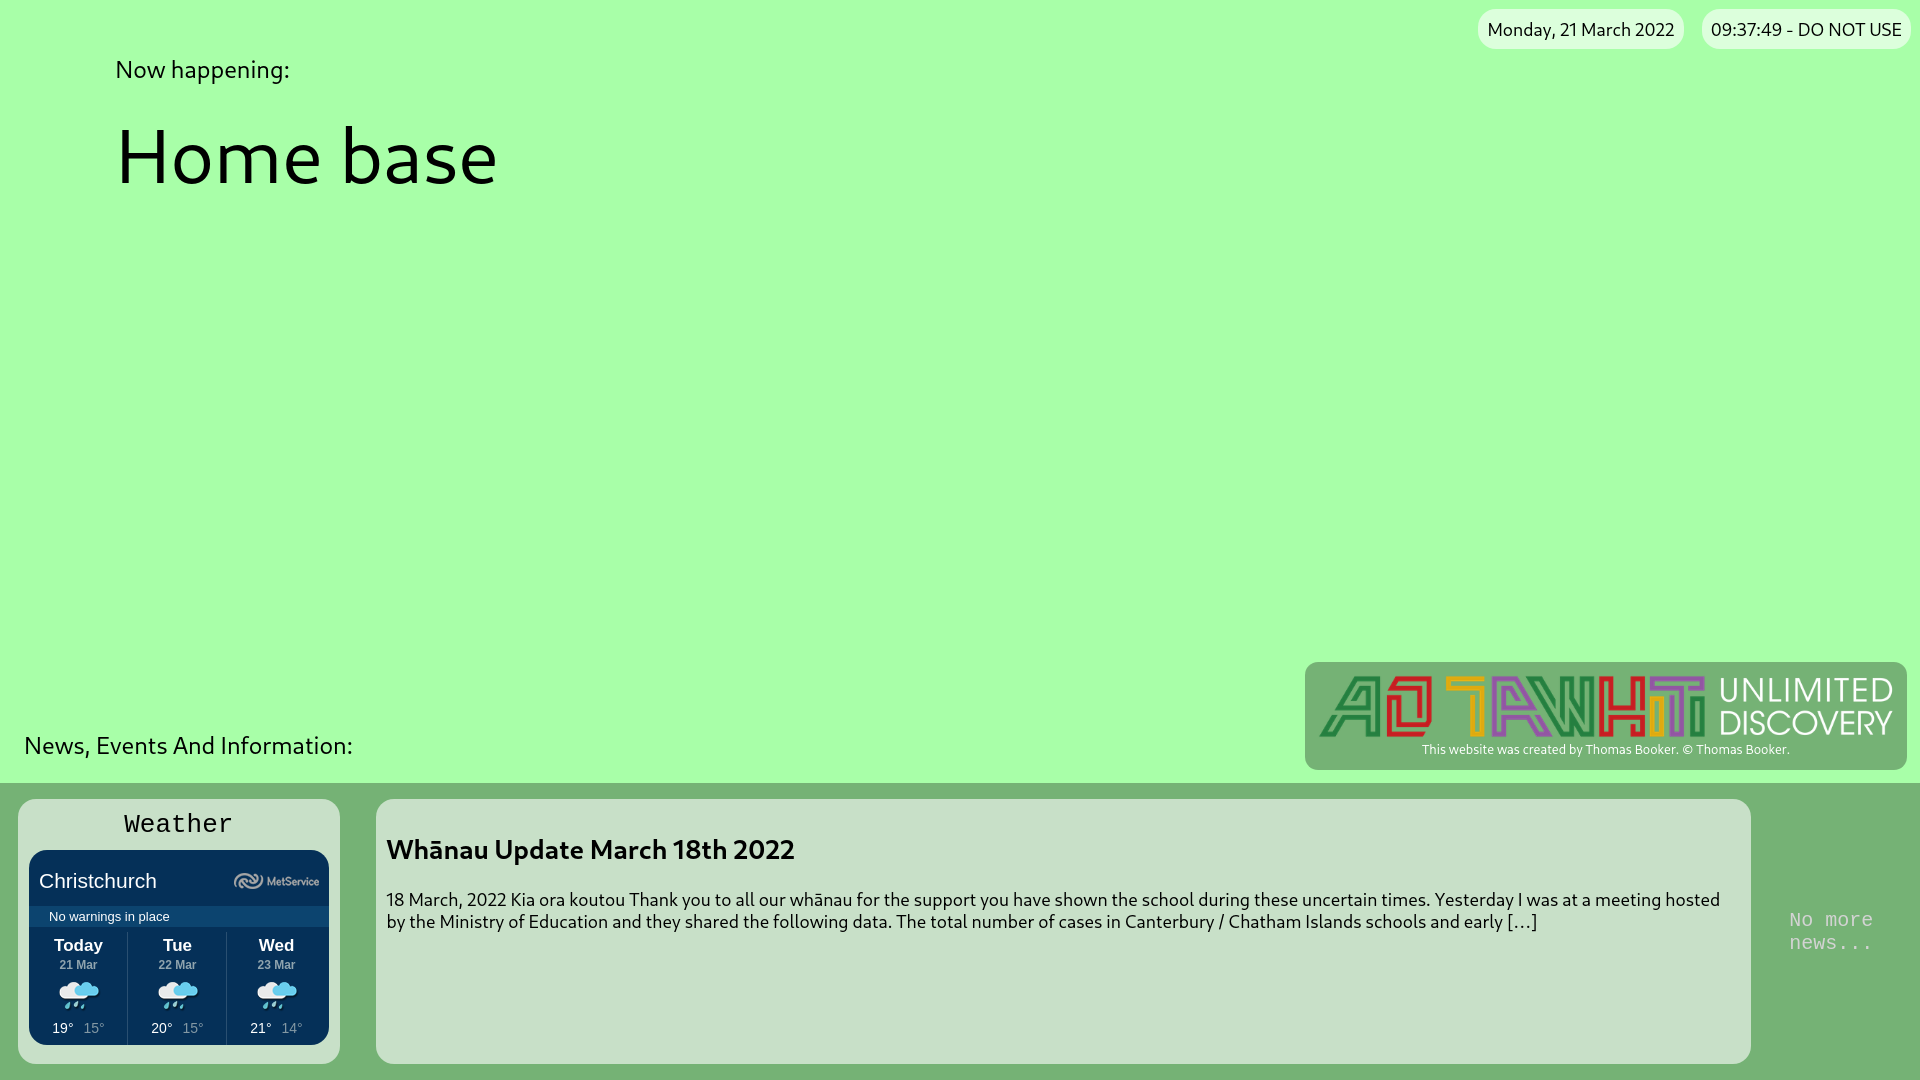
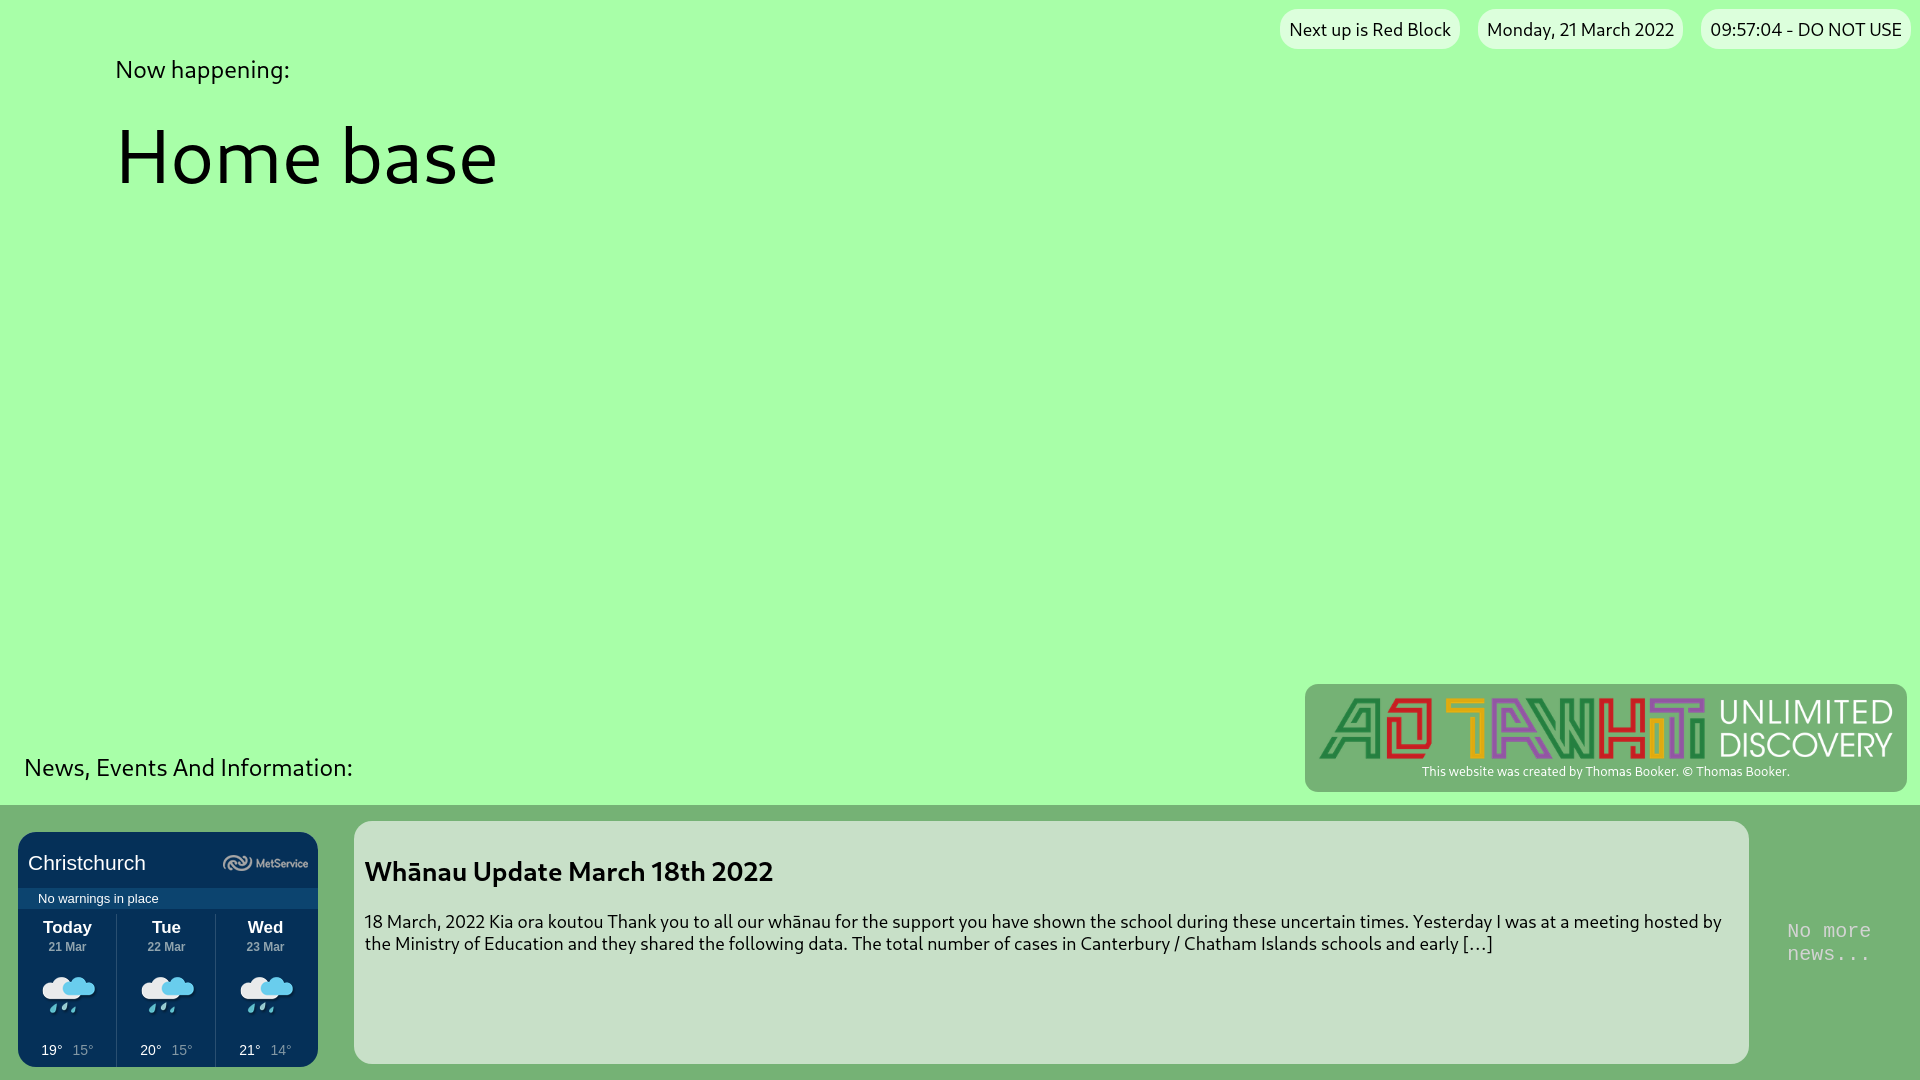
Test

diff --git a/index.html b/index.html
@@ -242,21 +242,11 @@
 					</ul>
 				</samp>
 			</div> -->
-			<div class="News-Item">
-				<samp
-					style="
-						font-size: xx-large;
-						text-align: center;
-						display: block;
-						margin-bottom: 0.4em;
-					"
-				>
-					Weather
-				</samp>
+			<div class="News-Item" style="padding: 0;">
 				<iframe
 					id="widget-iframe"
-					height="195"
-					src="https://services.metservice.com/weather-widget/widget?params=blue|medium|portrait|days-3|modern&loc=christchurch&type=urban"
+					width="300px" height="235px"
+					src="https://services.metservice.com/weather-widget/widget?params=blue|large|portrait|days-3|modern&loc=christchurch&type=urban"
 					allowtransparency="true"
 					style="border: none; border-radius: 1em"
 				></iframe>
